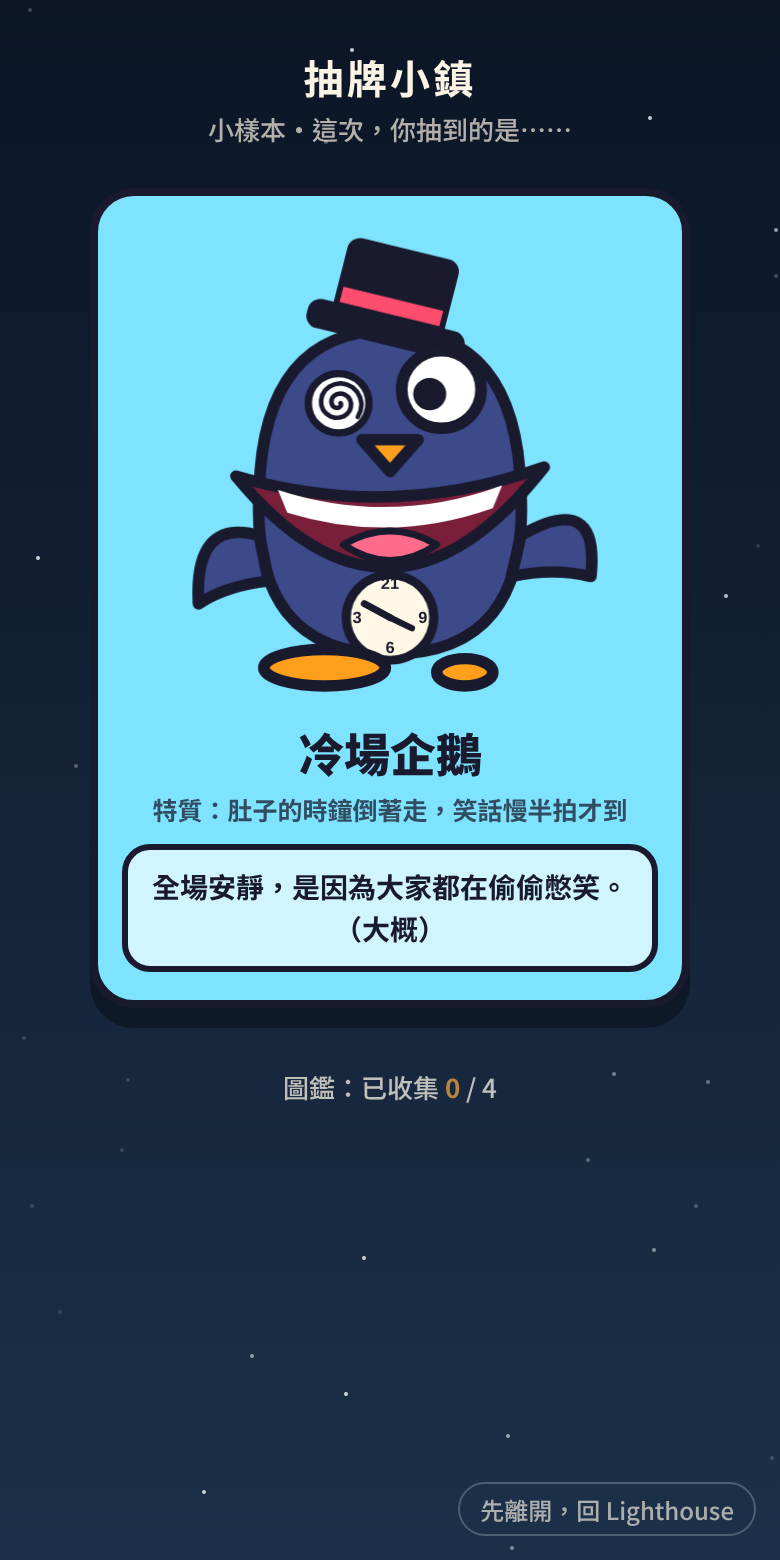
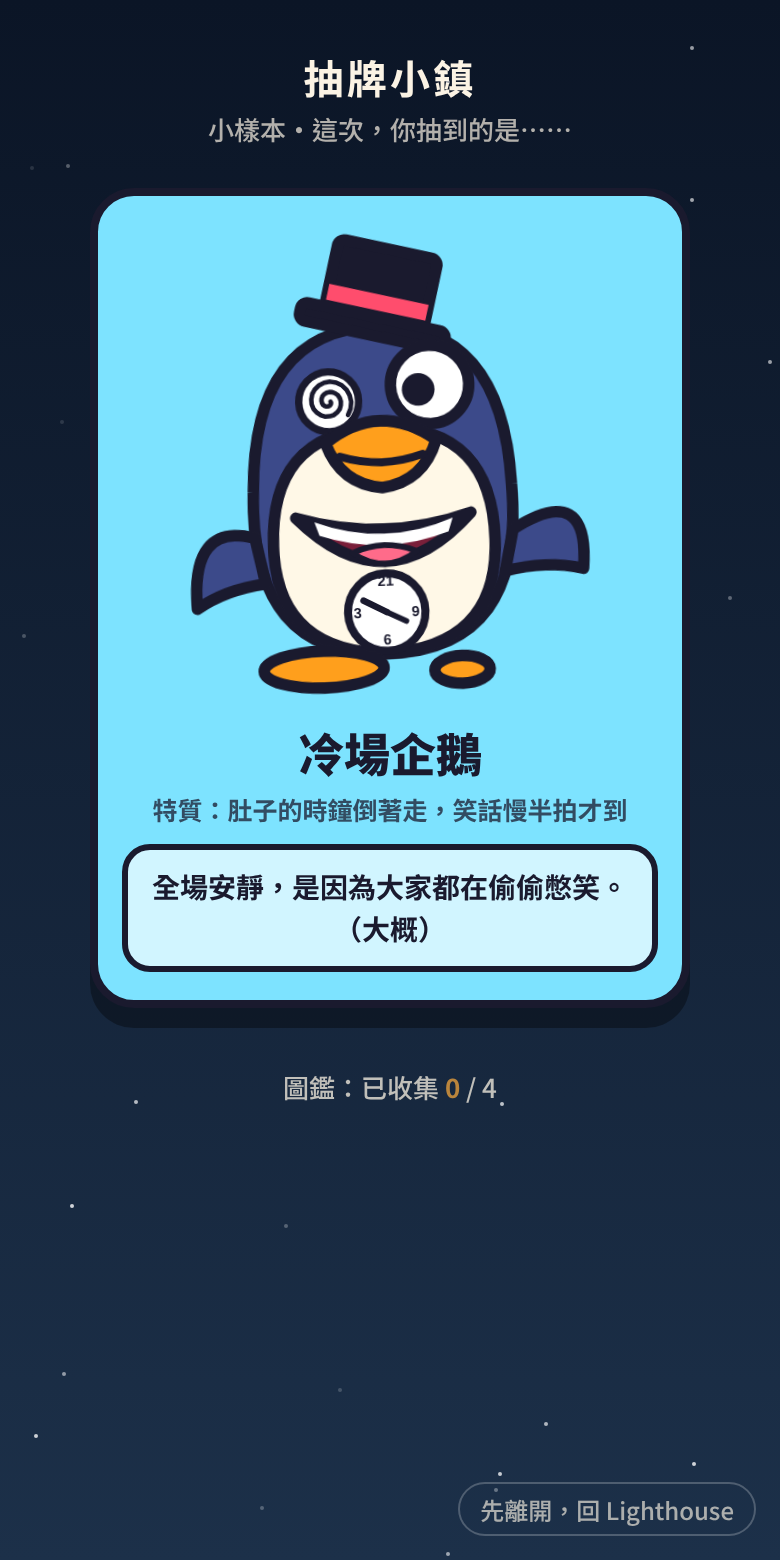
Lighthouse: 抽牌小樣本，企鵝重畫嘴喙與嘴巴
Claude-Session: https://claude.ai/code/session_01QMXbFy7GatcecM2zJaJAS8

Changed region(s): [[0.2462, 0.1231, 0.7692, 0.4615]]

diff --git a/lighthouse/cards-sample.html b/lighthouse/cards-sample.html
@@ -151,15 +151,16 @@ const ART = {
     <path d="M100 30 Q154 30 156 100 Q160 172 100 172 Q40 172 44 100 Q46 30 100 30Z" fill="#3c4a8a" ${o}/>
     <g transform="rotate(14 100 22)"><rect x="78" y="-4" width="44" height="34" rx="3" fill="#1a1a2e" ${o}/><rect x="68" y="26" width="64" height="8" rx="3" fill="#1a1a2e" ${o}/><rect x="78" y="16" width="44" height="7" fill="#ff4d6d"/></g>
     ${eyeSpiral(78,62,13)}${eyeBig(122,56,17,-5)}
-    <path d="M88 78 L112 78 L100 92 Z" fill="#ff9f1c" ${o}/>
-    <path d="M34 94 Q100 176 166 90 Q100 114 34 94Z" fill="#7a1f3a" ${o}/>
-    <path d="M52 100 Q100 116 148 98 L144 108 Q100 124 56 110 Z" fill="#fff"/>
-    <path d="M80 124 Q100 112 120 124 Q100 138 80 124Z" fill="#ff6b8a" stroke="${INK}" stroke-width="3" stroke-linejoin="round"/>
-    <g transform="translate(100 156) scale(.78) translate(-100 -150)"><circle cx="100" cy="150" r="24" fill="#fff8e7" ${o}/>
+    <path d="M100 74 Q150 74 148 128 Q146 170 100 172 Q54 170 52 128 Q50 74 100 74Z" fill="#fff8e7" ${o}/>
+    <path d="M76 80 Q100 62 124 80 Q118 98 100 100 Q82 98 76 80Z" fill="#ff9f1c" ${o}/>
+    <path d="M82 86 Q100 92 118 86" fill="none" stroke="${INK}" stroke-width="3.5" stroke-linecap="round"/>
+    <path d="M62 112 Q100 152 138 112 Q100 124 62 112Z" fill="#7a1f3a" ${o}/>
+    <path d="M70 114 Q100 126 130 114 L128 120 Q100 130 72 120Z" fill="#fff"/>
+    <path d="M86 128 Q100 122 114 128 Q100 138 86 128Z" fill="#ff6b8a" stroke="${INK}" stroke-width="2.5" stroke-linejoin="round"/>
+    <g transform="translate(100 154) scale(.7) translate(-100 -150)"><circle cx="100" cy="150" r="24" fill="#fff" ${o}/>
     <g class="clk" style="transform-origin:100px 150px"><path d="M100 150 L100 134" stroke="${INK}" stroke-width="4" stroke-linecap="round"/></g>
     <path d="M100 150 L112 156" stroke="${INK}" stroke-width="3.5" stroke-linecap="round"/>
-    <g font-size="9" font-weight="900" fill="${INK}" font-family="sans-serif" text-anchor="middle"><text x="100" y="134">21</text><text x="118" y="153">9</text><text x="100" y="170">6</text><text x="82" y="153">3</text></g>
-    </g>
+    <g font-size="9" font-weight="900" fill="${INK}" font-family="sans-serif" text-anchor="middle"><text x="100" y="134">21</text><text x="118" y="153">9</text><text x="100" y="170">6</text><text x="82" y="153">3</text></g></g>
     <path d="M44 120 Q16 112 18 150 Q30 142 48 140Z" fill="#3c4a8a" ${o}/>
     <path d="M156 120 Q190 100 186 138 Q170 134 152 138Z" fill="#3c4a8a" ${o}/>
     <ellipse cx="72" cy="178" rx="26" ry="8" fill="#ff9f1c" ${o}/><ellipse cx="132" cy="180" rx="12" ry="6" fill="#ff9f1c" ${o}/>
